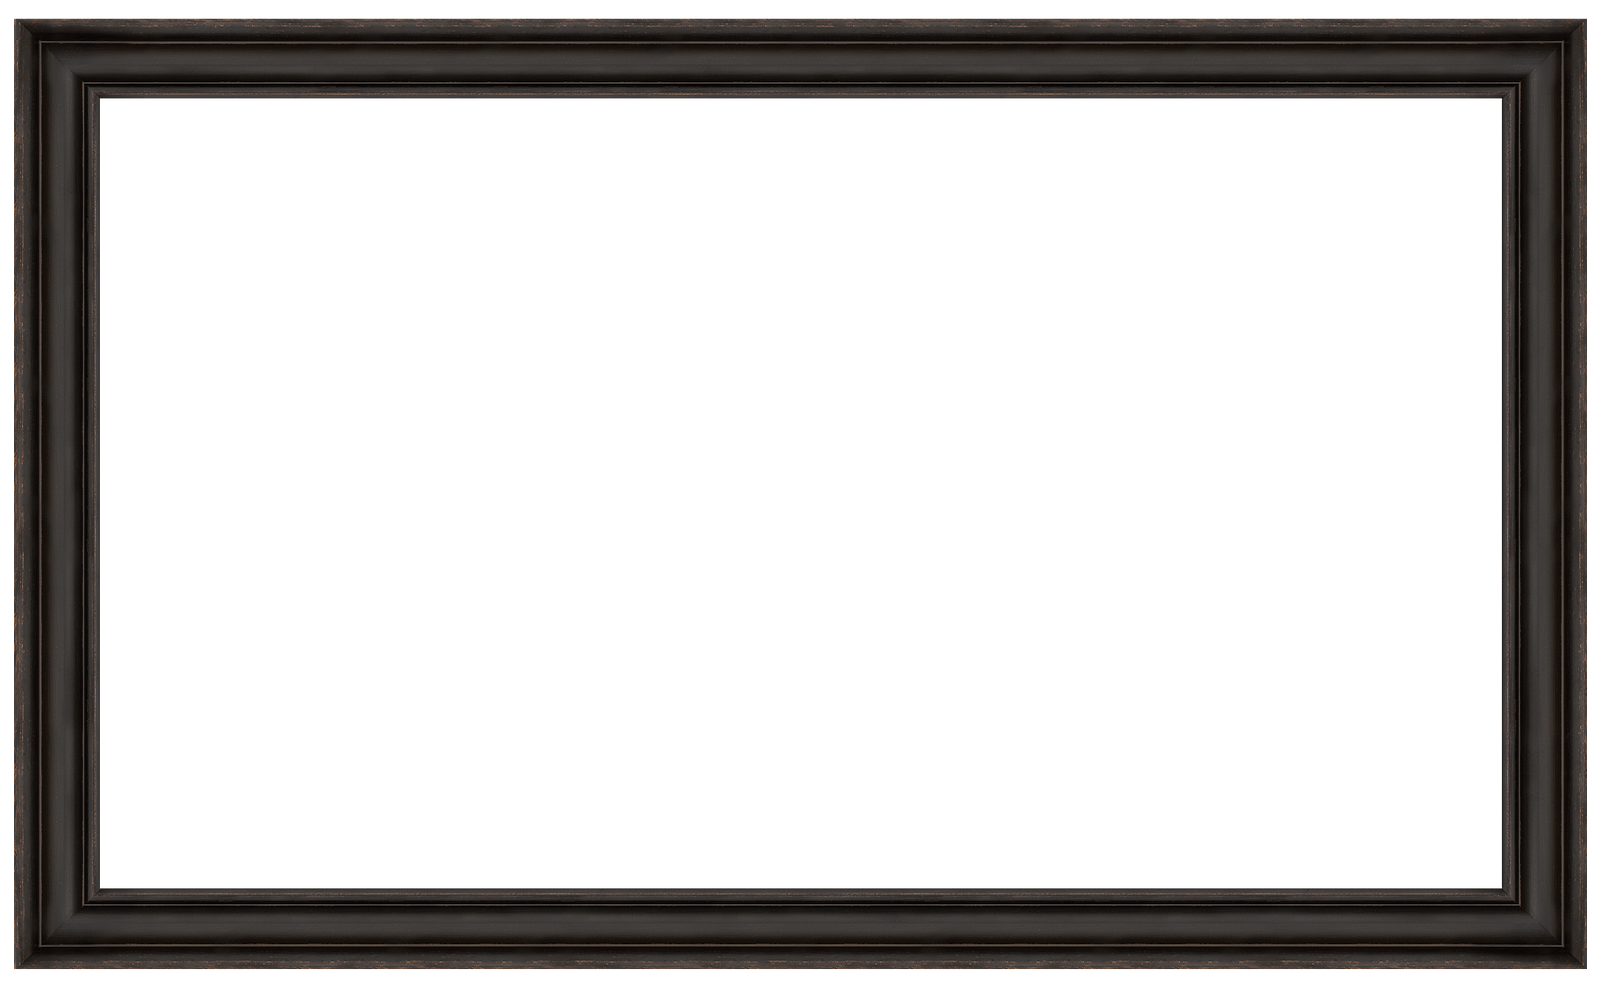
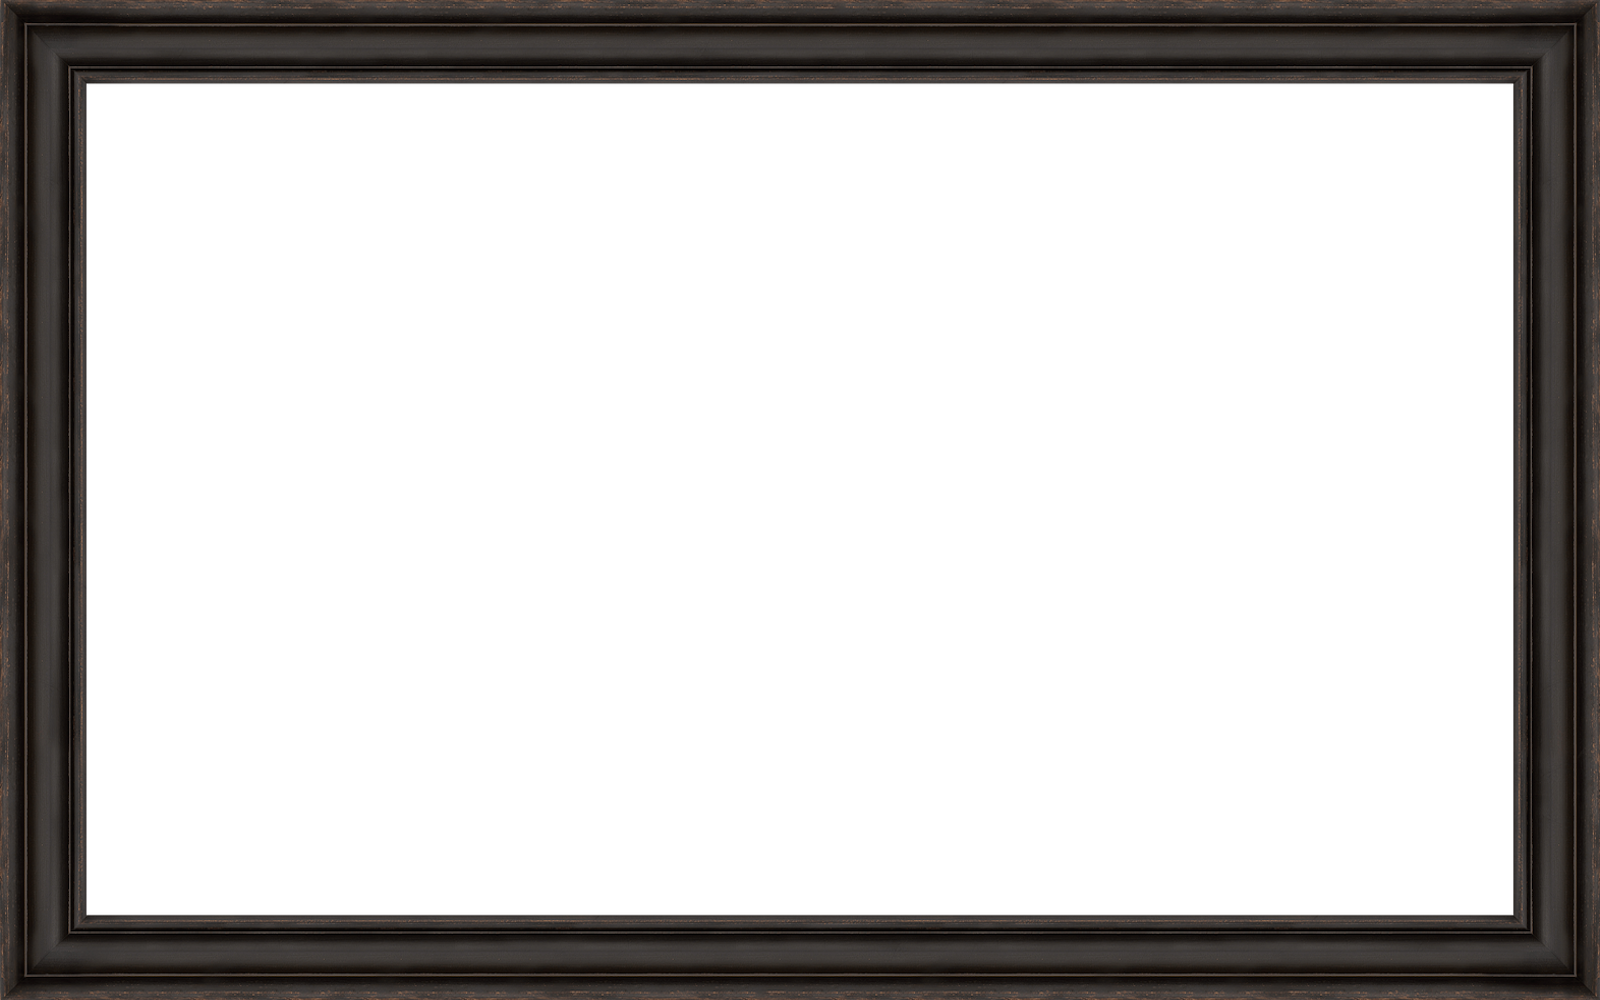
1 monkey + 1 macbook fixed this layout

Changed region(s): [[0.0, 0.0, 1.0, 1.0]]

diff --git a/lib/main.dart b/lib/main.dart
@@ -8,46 +8,42 @@ class MyApp extends StatelessWidget {
 
   Widget frame() {
     return const Center(
-      child: Image(
-        image: AssetImage('images/Providence-Black-Frame.png'),
-        fit: BoxFit.fill,
+      child: SizedBox.expand(
+        child: Image(
+          image: AssetImage('images/Providence-Black-Frame.png'),
+          fit: BoxFit.fill,
+        ),
       ),
     );
   }
 
   Widget slideshow() {
-    return SizedBox.expand(
-      child: FractionallySizedBox(
-        // we squish the images to fit
-        widthFactor: 0.9,
-        heightFactor: 0.9,
-        alignment: FractionalOffset.center,
-        child: ImageSlideshow(
-          width: double.infinity,
-          height: double.infinity,
-          autoPlayInterval: 5000,
-          isLoop: true,
-          children: [
-            Image(
-              image: NetworkImage(
-                'https://upload.wikimedia.org/wikipedia/commons/thumb/1/1e/D%C3%BClmen%2C_Hausd%C3%BClmen%2C_Heubach_--_2019_--_3260.jpg/1280px-D%C3%BClmen%2C_Hausd%C3%BClmen%2C_Heubach_--_2019_--_3260.jpg',
-              ),
-              fit: BoxFit.fill,
+    return Center(
+      child: ImageSlideshow(
+        width: double.infinity,
+        height: double.infinity,
+        autoPlayInterval: 5000,
+        isLoop: true,
+        children: [
+          Image(
+            image: NetworkImage(
+              'https://upload.wikimedia.org/wikipedia/commons/thumb/1/1e/D%C3%BClmen%2C_Hausd%C3%BClmen%2C_Heubach_--_2019_--_3260.jpg/1280px-D%C3%BClmen%2C_Hausd%C3%BClmen%2C_Heubach_--_2019_--_3260.jpg',
             ),
-            Image(
-              image: NetworkImage(
-                'https://upload.wikimedia.org/wikipedia/commons/thumb/b/ba/Landscape_of_Shimla_%2C_Himachal_Pradesh.jpg/1280px-Landscape_of_Shimla_%2C_Himachal_Pradesh.jpg',
-              ),
-              fit: BoxFit.fill,
+            fit: BoxFit.fill,
+          ),
+          Image(
+            image: NetworkImage(
+              'https://upload.wikimedia.org/wikipedia/commons/thumb/b/ba/Landscape_of_Shimla_%2C_Himachal_Pradesh.jpg/1280px-Landscape_of_Shimla_%2C_Himachal_Pradesh.jpg',
             ),
-            Image(
-              image: NetworkImage(
-                'https://upload.wikimedia.org/wikipedia/commons/thumb/1/1a/D%C3%BClmen%2C_Umland%2C_Sonnenaufgang_--_2012_--_8069.jpg/1280px-D%C3%BClmen%2C_Umland%2C_Sonnenaufgang_--_2012_--_8069.jpg',
-              ),
-              fit: BoxFit.fill,
+            fit: BoxFit.fill,
+          ),
+          Image(
+            image: NetworkImage(
+              'https://upload.wikimedia.org/wikipedia/commons/thumb/1/1a/D%C3%BClmen%2C_Umland%2C_Sonnenaufgang_--_2012_--_8069.jpg/1280px-D%C3%BClmen%2C_Umland%2C_Sonnenaufgang_--_2012_--_8069.jpg',
             ),
-          ],
-        ),
+            fit: BoxFit.fill,
+          ),
+        ],
       ),
     );
   }
@@ -57,16 +53,11 @@ class MyApp extends StatelessWidget {
     return MaterialApp(
       title: 'Flutter Demo',
       home: Center(
-        child: Container(
-          width: 1600,
-          height: 1000,
-          //color: Colors.amber[600],
-          child: Stack(
-            children: <Widget>[
-              slideshow(),
-              frame(),
-            ],
-          ),
+        child: Stack(
+          children: <Widget>[
+            slideshow(),
+            frame(),
+          ],
         ),
       ),
     );
